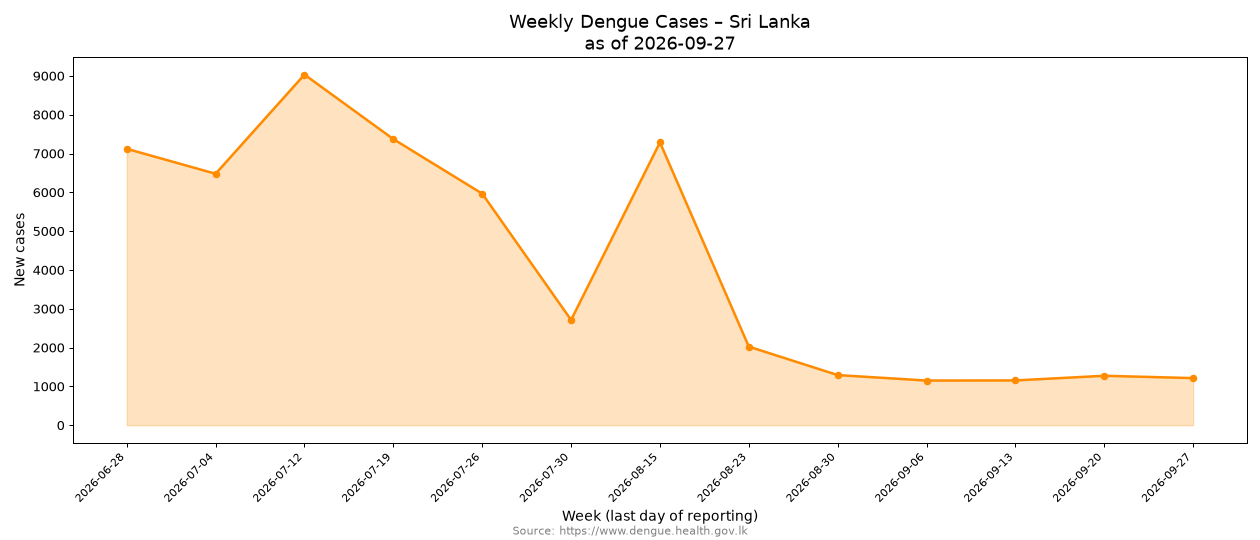
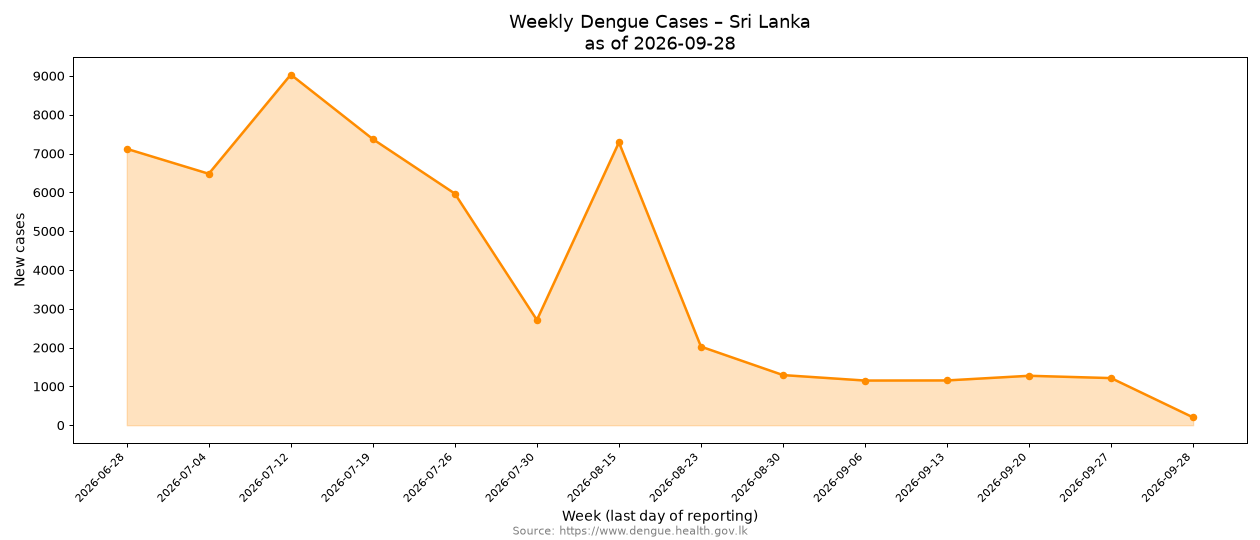
🤖 [pipeline.yml] 2026-09-29-0849

diff --git a/README.md b/README.md
@@ -139,6 +139,7 @@ As of 2026-09-13
 
 ### [National Dengue Control Unit - Daily Update](data/NDCUDaily)
 
+- [2026-09-28](data/NDCUDaily/2026/2026-09/2026-09-28)
 - [2026-09-27](data/NDCUDaily/2026/2026-09/2026-09-27)
 - [2026-09-22](data/NDCUDaily/2026/2026-09/2026-09-22)
 - [2026-09-21](data/NDCUDaily/2026/2026-09/2026-09-21)
